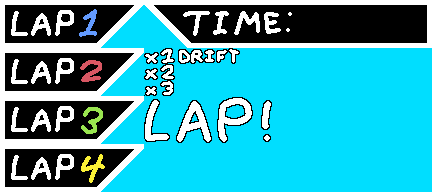
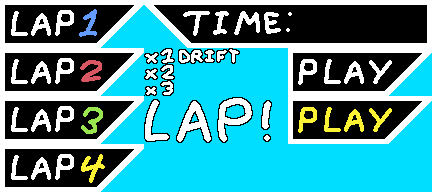
menus!

Changed region(s): [[0.662, 0.25, 1.0, 0.75]]

diff --git a/game.py b/game.py
@@ -20,8 +20,13 @@ class Game:
         self.track_img = [pygame.image.load('track.png').convert(), pygame.image.load('track_lap2.png').convert()]
         self.track_file = open('track.txt', 'r')
 
-        self.game_state = 'playing'
+        self.menu_background = pygame.image.load('test_map.png').convert()
+        self.selected_menu_option = 0
+        self.menu = 'title'
+
+        self.game_state = 'menu'
         self.animation_tick = 0
+        self.debug = False
 
         readmode = None
         writing_lap = 0
@@ -162,7 +167,7 @@ class Game:
                 else:
                     self.displayed_time = f'{int(self.time / 60)}:{'%.3f'%(self.time % 60)}'
             #self.display.fill((0, 0, 0))
-            pygame.display.set_caption(f'trackmorph | lap {self.lap} | time {self.displayed_time} | fps: {int(self.clock.get_fps())}')
+            pygame.display.set_caption(f'Trackmorph | fps: {int(self.clock.get_fps())}')
 
             for event in pygame.event.get():
                 if event.type == pygame.QUIT:
@@ -198,8 +203,75 @@ class Game:
                         self.game_state = 'finished'
                         self.animation_tick = 0
 
+            #menu
+            if self.game_state == 'menu':
+                #scrolling background
+                self.display.blit(self.menu_background, (((self.animation_tick / 2) % 64) * -1, ((self.animation_tick / 2) % 64) * -1))
+
+                #the stuff in the corner
+                self.display.blit(self.small_font.render('Navigate the menu using W, S, and SPACE.', True, (255, 255, 255)), (4, 360 - 36 - 12))
+                self.display.blit(self.small_font.render('Made by elliottgdev (© maybe?) for GMTK Game Jam 2025.', True, (255, 255, 255)), (4, 360 - 24 - 8))
+                self.display.blit(self.small_font.render('Made with pygame-ce.', True, (255, 255, 255)), (4, 360 - 12 - 4))
+
+                #buttons
+                colours = list()
+                for i in range(3):
+                    if i == int(self.selected_menu_option): colours.append((255, 200, 0))
+                    else: colours.append((255, 255, 255))
+
+                if self.input[0]:
+                    self.selected_menu_option -= 1
+                    self.input[0] = False
+                if self.input[1]:
+                    self.selected_menu_option += 1
+                    self.input[1] = False
+
+                self.selected_menu_option = self.selected_menu_option % 3
+
+                if self.menu == 'title':
+                    # title
+                    self.display.blit(self.font.render('Trackmorph', True, (255, 255, 255)), (340 - 117 / 2, 120))
+
+                    if self.input[4]:
+                        if self.selected_menu_option == 0:
+                            self.game_state = 'playing'
+                            self.initialise()
+                        if self.selected_menu_option == 1:
+                            self.menu = 'options'
+                        if self.selected_menu_option == 2:
+                            pygame.quit()
+                            sys.exit()
+
+                        self.selected_menu_option = 0
+                        self.input = [False, False, False, False, False, False]
+
+                    self.display.blit(self.small_font.render('Play', True, colours[0]), (340 - 12 / 2, 170))
+                    self.display.blit(self.small_font.render('Change Resolution', True, colours[1]), (340 - 100 / 2, 200))
+                    self.display.blit(self.small_font.render('Quit', True, colours[2]), (340 - 12 / 2, 230))
+                if self.menu == 'options':
+                    #all ****s are out the window, im just writing the sloppiest of sloppy joe codes imaginable. thank GOD im never gonna have to touch this codebase again soon
+                    if self.input[4]:
+                        self.menu = 'title'
+                        if self.selected_menu_option == 0:
+                            self.resolution_scale = 1
+                        if self.selected_menu_option == 1:
+                            self.resolution_scale = 2
+                        if self.selected_menu_option == 2:
+                            self.resolution_scale = 3
+
+                        self.window = pygame.display.set_mode((640 * self.resolution_scale, 360 * self.resolution_scale))
+
+                        self.selected_menu_option = 0
+                        self.input = [False, False, False, False, False, False]
+
+                    self.display.blit(self.font.render('Resolution', True, (255, 255, 255)), (340 - 80 / 2, 120))
+
+                    self.display.blit(self.small_font.render('360p', True, colours[0]), (340 - 2 / 2, 170))
+                    self.display.blit(self.small_font.render('720p', True, colours[1]), (340 - 2 / 2, 200))
+                    self.display.blit(self.small_font.render('1080p', True, colours[2]), (340 - 10 / 2, 230))
+
             #the time trial
-            if self.game_state == 'playing':
+            elif self.game_state == 'playing':
                 #offroad speed penalty
                 max_speed = self.car_speed
                 self.is_offroad = False
@@ -329,13 +401,14 @@ class Game:
 
                         pygame.draw.circle(self.display, (203, 219, 252), ghost_pos, 8)
 
-                for offroad in self.offroads[self.lap - 1]:
-                    pygame.draw.rect(self.display, (0, 100, 0), (offroad.x - self.car_pos.x + 340, offroad.y - self.car_pos.y + 180, offroad.width, offroad.height))
+                if self.debug:
+                    for offroad in self.offroads[self.lap - 1]:
+                        pygame.draw.rect(self.display, (0, 100, 0), (offroad.x - self.car_pos.x + 340, offroad.y - self.car_pos.y + 180, offroad.width, offroad.height))
 
-                for wall in self.walls[self.lap - 1]:
-                    pygame.draw.line(self.display, (0, 0, 255),
-                                     (-self.car_pos.x + 340 + wall[0][0], - self.car_pos.y + 180 + wall[0][1]),
-                                     (-self.car_pos.x + 340 + wall[1][0], -self.car_pos.y + 180 + wall[1][1]))
+                    for wall in self.walls[self.lap - 1]:
+                        pygame.draw.line(self.display, (0, 0, 255),
+                                         (-self.car_pos.x + 340 + wall[0][0], - self.car_pos.y + 180 + wall[0][1]),
+                                         (-self.car_pos.x + 340 + wall[1][0], -self.car_pos.y + 180 + wall[1][1]))
 
                 check = 0
                 for checkpoint in self.checkpoints[self.lap - 1]:
@@ -356,10 +429,11 @@ class Game:
                                     self.input = [False, False, False, False, False, False]
                                     self.saved_ghost = False
                                     break
-
-                        pygame.draw.line(self.display, (255, 0, 255), (-self.car_pos.x + 340 + checkpoint[0][0], - self.car_pos.y + 180 + checkpoint[0][1]), (-self.car_pos.x + 340 + checkpoint[1][0], -self.car_pos.y + 180 + checkpoint[1][1]))
+                        if self.debug:
+                            pygame.draw.line(self.display, (255, 0, 255), (-self.car_pos.x + 340 + checkpoint[0][0], - self.car_pos.y + 180 + checkpoint[0][1]), (-self.car_pos.x + 340 + checkpoint[1][0], -self.car_pos.y + 180 + checkpoint[1][1]))
                     else:
-                        pygame.draw.line(self.display, (255, 0, 0), (-self.car_pos.x + 340 + checkpoint[0][0], - self.car_pos.y + 180 + checkpoint[0][1]), (-self.car_pos.x + 340 + checkpoint[1][0], -self.car_pos.y + 180 + checkpoint[1][1]))
+                        if self.debug:
+                            pygame.draw.line(self.display, (255, 0, 0), (-self.car_pos.x + 340 + checkpoint[0][0], - self.car_pos.y + 180 + checkpoint[0][1]), (-self.car_pos.x + 340 + checkpoint[1][0], -self.car_pos.y + 180 + checkpoint[1][1]))
                     check += 1
 
                 #pygame.draw.rect(self.display, (0, 255, 0), self.car_rect)
